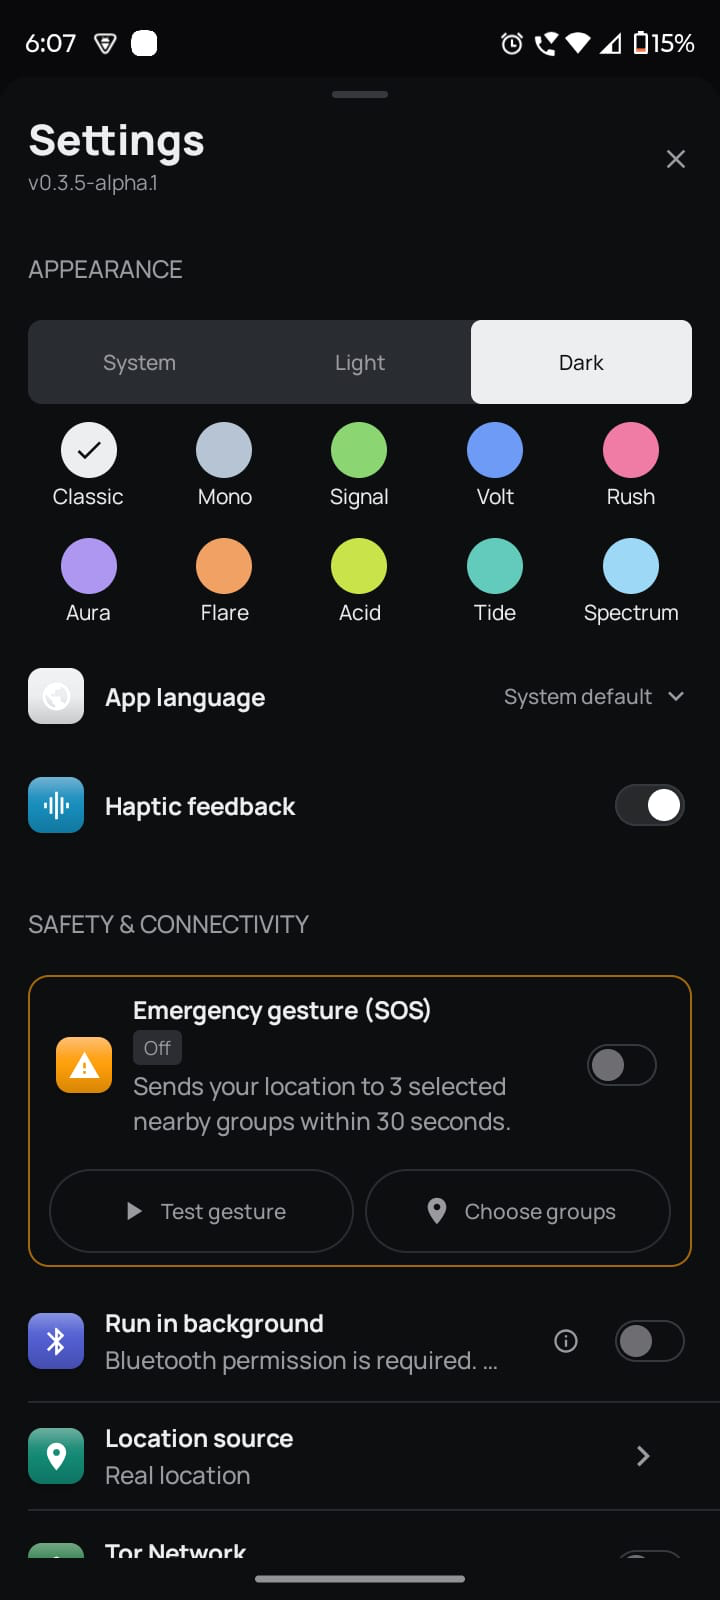
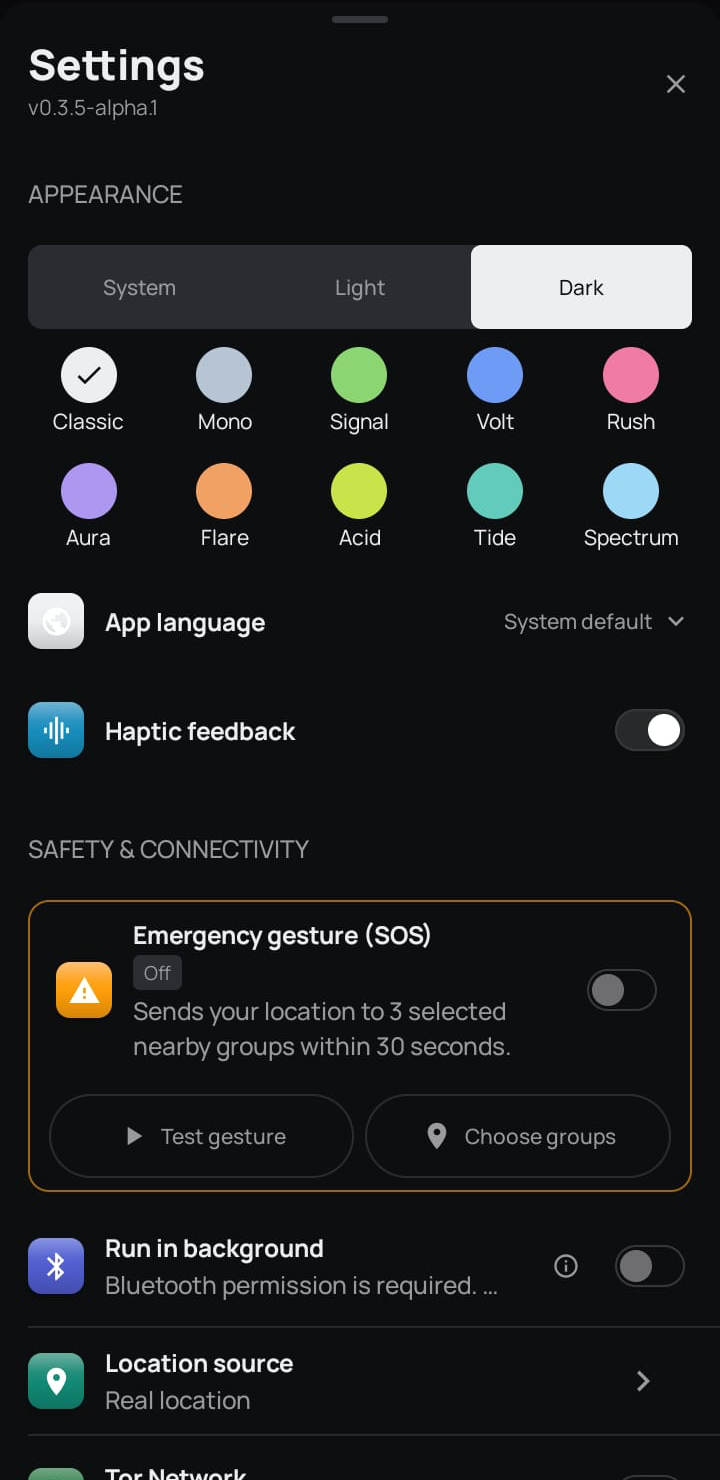
Crop README captures and clarify Hopper transports
Correct group discovery screenshot; remove Android bars and image metadata; clarify alpha release status and relationship with upstream Bitchat.

diff --git a/README.md b/README.md
@@ -8,7 +8,7 @@ Nearby conversations, place-based discovery, and a social feed in one Android ap
 
 ## Inside Hopper
 
-These are captures of an installed **v0.3.5-alpha.1 Hacker development build**, not previews of an approved public APK. They show UI affordances, not verified end-to-end delivery. The named areas and discovery counts are what appeared on the capturing phone, not your location or a promise of nearby peers.
+Screenshots show the installed **v0.3.5-alpha.1 Hacker development build**. They preview the interface, not an approved public APK or verified end-to-end delivery. Named areas and discovery counts reflect one example session; results vary by device, location, permissions, and available peers.
 
 | Nearby | Find a group |
 | :---: | :---: |
@@ -20,7 +20,13 @@ These are captures of an installed **v0.3.5-alpha.1 Hacker development build**, 
 | <img src="assets/screens/choose-an-area.png" width="280" alt="Globe area picker with spin, zoom, focus, detail settings, and Select button" /> | <img src="assets/screens/appearance-and-safety.png" width="280" alt="Settings showing system light and dark appearance, color swatches, language, haptics, SOS off, background operation off, and real location source" /> |
 | Spin and zoom the globe, choose a detail level, then select a geographic area. The highlighted region is approximately **5,000 km** wide in this capture, not a precise position. | Choose system, light, or dark appearance and an accent color; adjust language and haptics. The screen also shows the SOS gesture switched **off**, a background option, and the location source. The screenshot does not prove emergency delivery. |
 
-Other captures from this alpha show a **For you / Global** feed with posts and reaction controls, a **profile** with Reels, Uploads, People, Music, and Saved tabs, a **music** library with playlists, and a **place chat** composer. We have not republished those captures: several include third-party media, identifiable people, or conversation content. Visible tabs and controls describe the interface; availability, media rights, connectivity, and message delivery depend on the actual build and environment.
+## More to explore
+
+The alpha interface also includes a **For you / Global** feed with post interactions, a **profile** with Reels, Uploads, People, Music, and Saved tabs, a **music** library with playlists, and a **place chat** composer. Availability and content depend on the build and connectivity; public or third-party media remains subject to its respective rights and retention policies.
+
+## Hopper and Bitchat
+
+Hopper builds on the nearby-first ideas of [Bitchat](https://github.com/permissionlesstech/bitchat) with Bluetooth mesh messaging and Noise-protected private sessions. Hopper adds a Nostr-backed social layer for places, feed, media, and profiles. On supported Android devices, Wi-Fi Direct can carry nearby reel transfers; Bluetooth remains the mesh messaging transport. The upstream Bitchat project and its [Android app](https://github.com/permissionlesstech/bitchat-android) are separate: Hopper is **not its official Android app**, and other Bitchat variants are not Hopper releases. Install Hopper only from this repository's approved releases when they become available.
 
 ## What to expect
 
